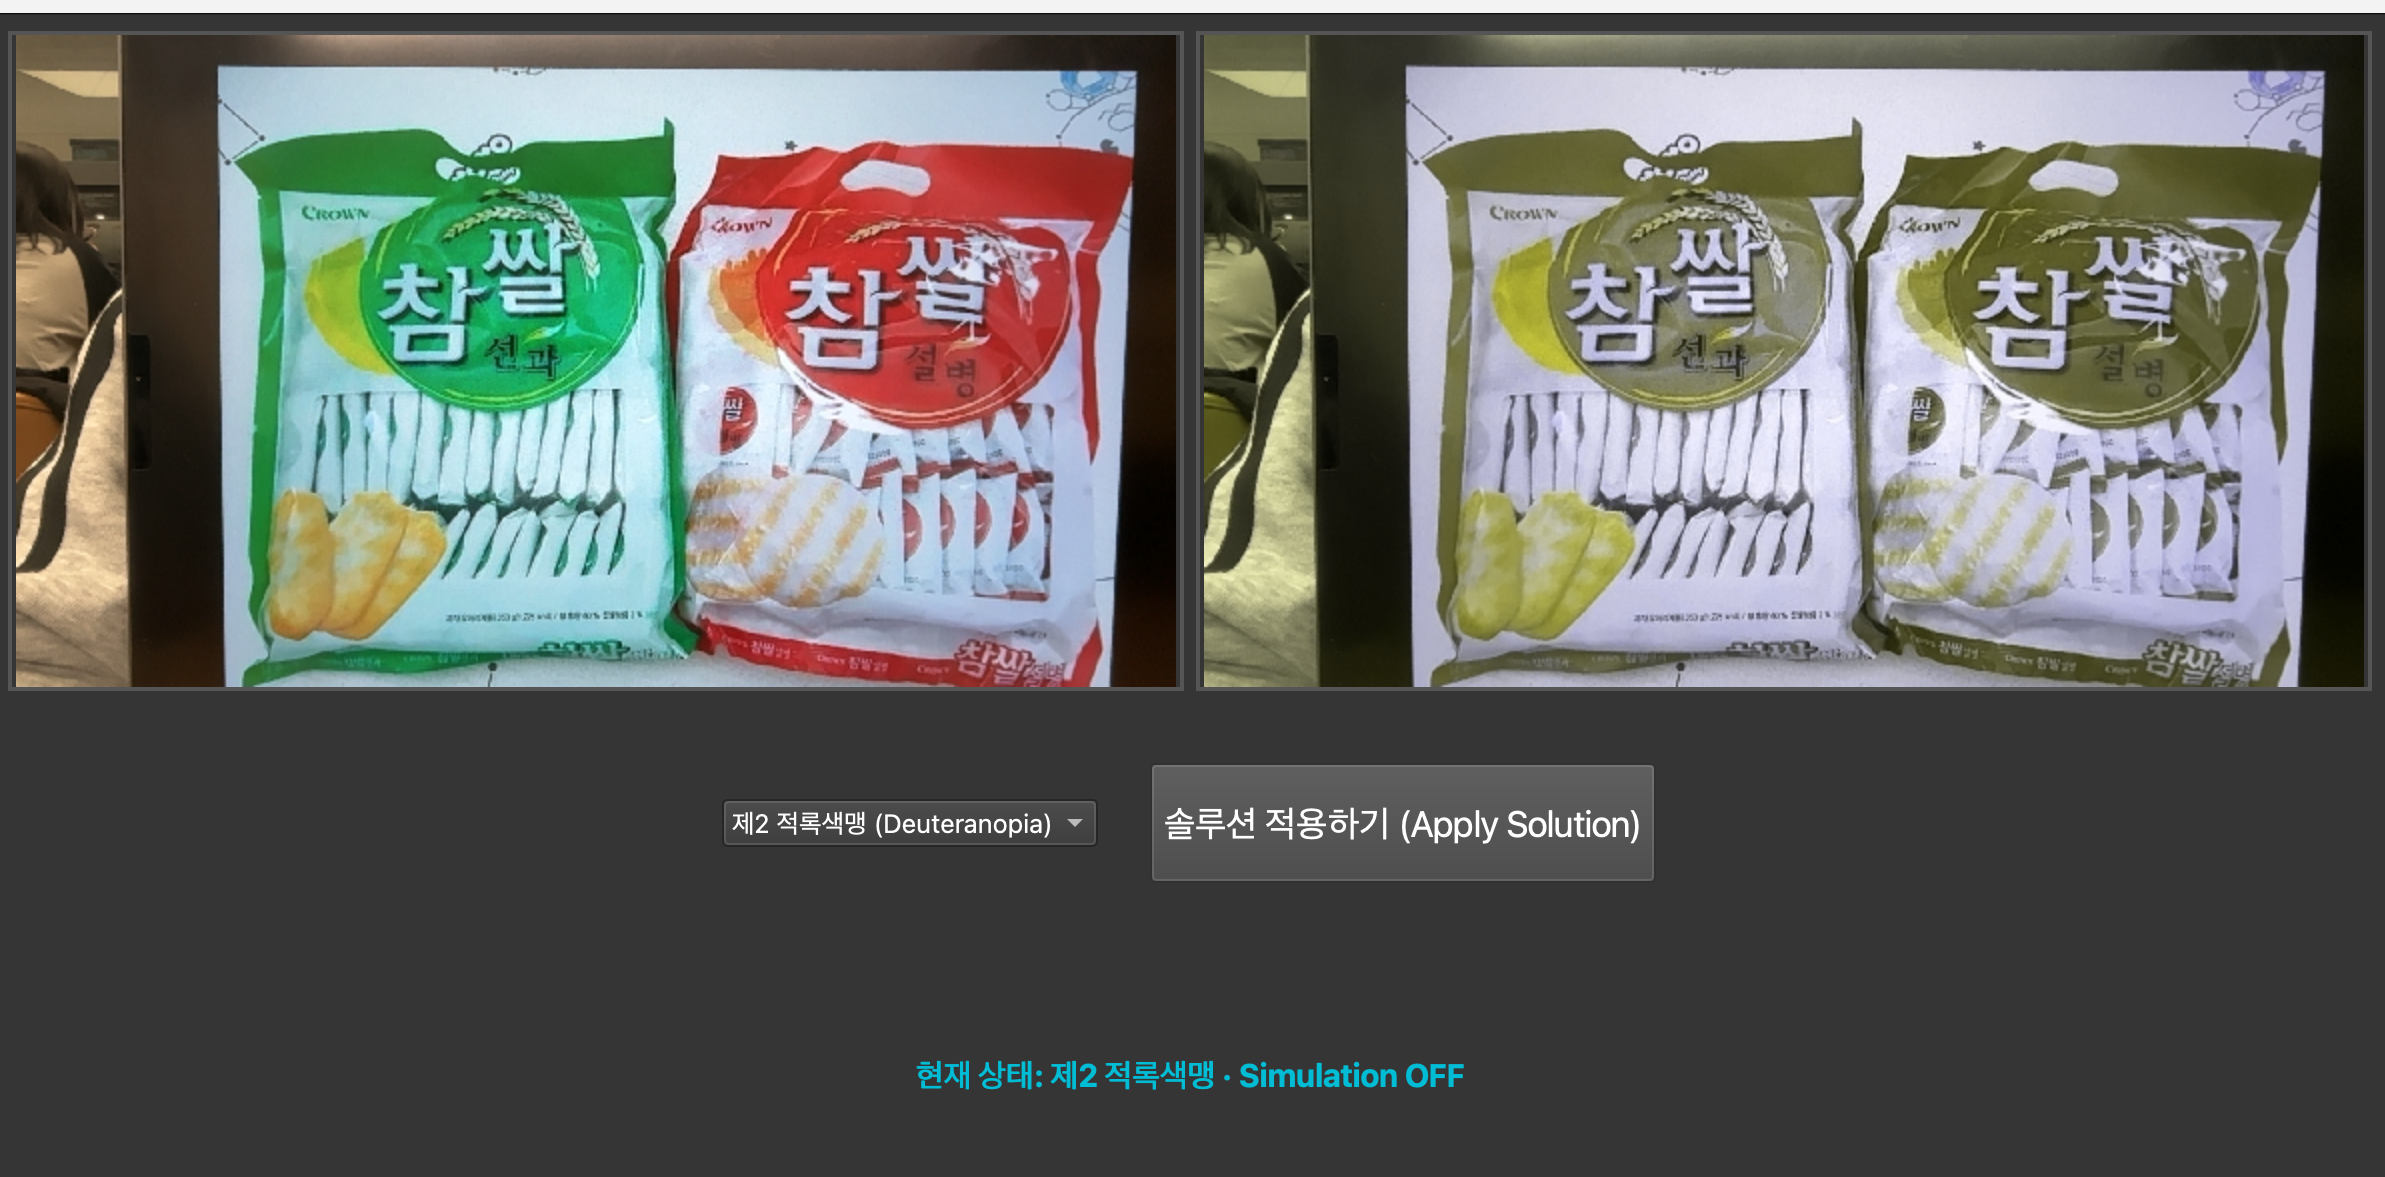
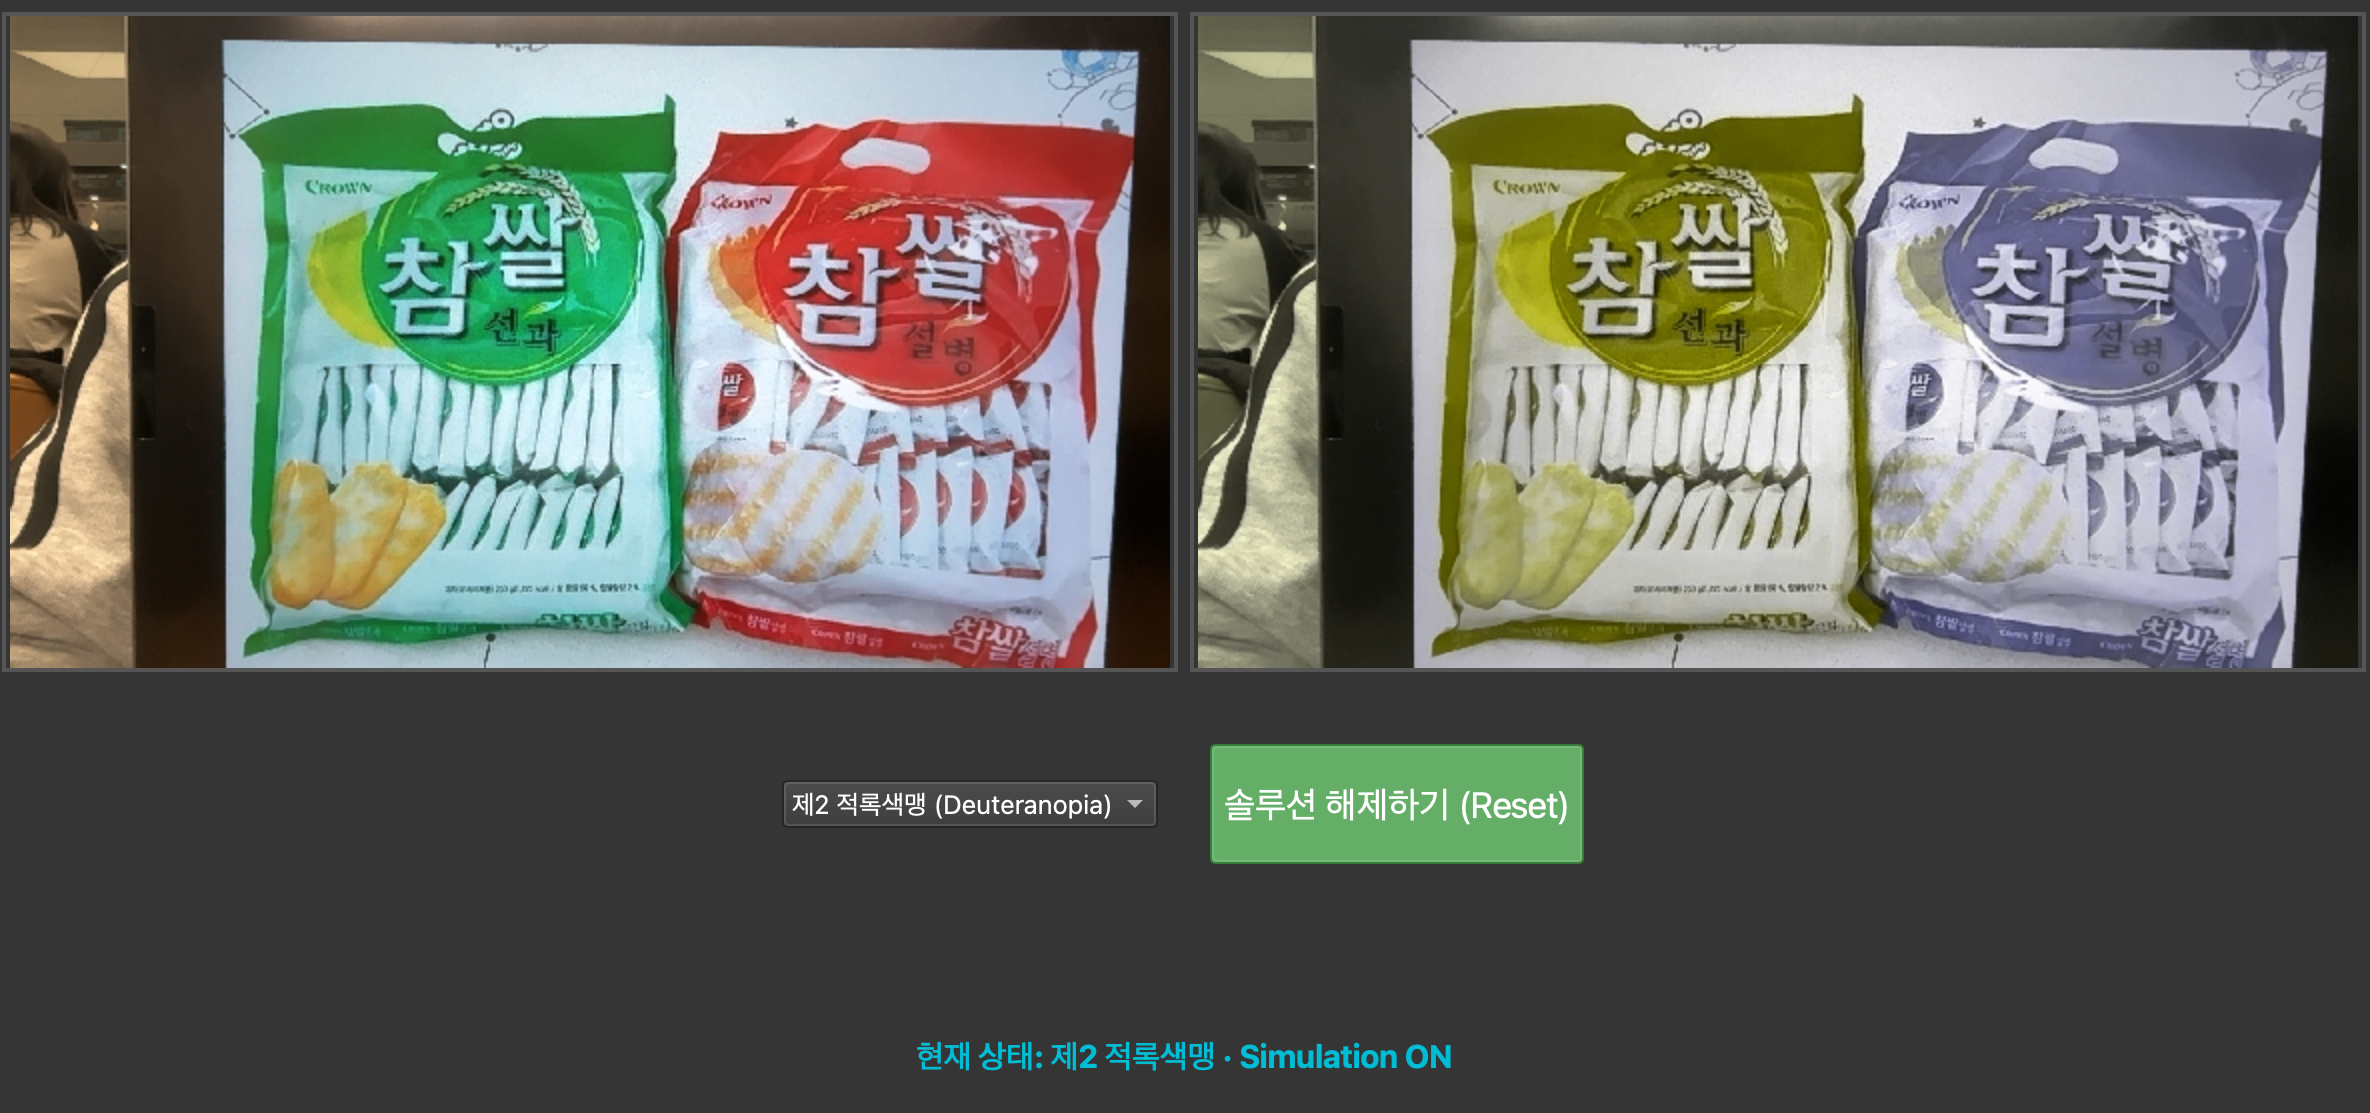
streamlit 수정

diff --git a/app.py b/app.py
@@ -36,12 +36,12 @@ with st.sidebar:
     # 보기 모드 (공통)
     view_mode = st.radio(
         "오른쪽 화면 모드",
-        ("⛔ 문제 상황 보기 (Simulation)", "✅ 해결책 보기 (Correction)")
+        ("OFF (적록색맹 시점)", "ON (보정 후)")
     )
-    is_correction_mode = True if "해결책" in view_mode else False
+    is_correction_mode = True if "ON" in view_mode else False
 
 # --- [3] 메인 타이틀 ---
-st.title("🎨 색각 보정 유니버설 웹 서비스")
+st.title(" 적록색맹을 위한 실시간 색각 보정 시스템 ")
 st.markdown(f"현재 모드: **{app_mode}**")
 st.divider()
 
@@ -63,14 +63,14 @@ if app_mode == "📁 이미지 파일 업로드":
         # 화면 배치 (2단 컬럼)
         col1, col2 = st.columns(2)
         with col1:
-            st.subheader("👁 원본 (Normal Vision)")
+            st.subheader(" 원본 ")
             st.image(img_array, use_container_width=True)
         with col2:
             if not is_correction_mode:
-                st.subheader(f"🔒 {type_option} 시각 (Before)")
+                st.subheader(f" {type_option} 시각 (Before)")
                 st.image(sim_off, use_container_width=True)
             else:
-                st.subheader(f"🔑 보정된 시각 (After)")
+                st.subheader(f" 보정된 시각 (After)")
                 st.image(sim_on, use_container_width=True)
 
 # ==========================================
